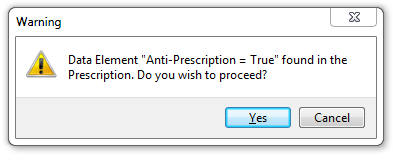
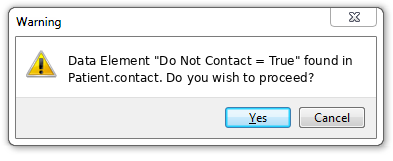
FHIR-18347: Replace stale modifier-extension examples
Issue request:
FHIR-18347 was Published/Persuasive for STU3 and requested replacing the anti-prescription modifier-extension example because core MedicationRequest now supports do-not-administer requests. The Jira specifically asked to use a Patient.contact do-not-contact example, update the XML/JSON instance example plus the sample warning graphic and surrounding text, and preferably replace the narrative example with a Condition family-history modifier example.

Initial application:
The explicit application commit 32abd5cc959eb6f7daac0704952cd9c681ac0101 changed only the introductory modifier-extension bullet in source/extensibility.html from anti-prescription to Patient.contact. The lower XML/JSON example, narrative example, warning image, and RDF example still carried the anti-prescription pattern in the current source.

Additional context:
MedicationRequest now has MedicationRequest.doNotPerform for requests not to take or administer medication, so retaining anti-prescription as an extension example is misleading. source/hierarchy.xml includes extensibility.html and rdf.html in the current build, and source/extensibility.html directly references the warning image and RDF example. No Zulip or Confluence search result found a conflicting work-group or community decision. FHIR-7376 is already represented on the combined branch as a separate typo audit touching the same historical anti-prescription area, so it was not decided again here.

AutoFHIR reconciliation:
[…]

Changed region(s): [[0.1527, 0.4348, 0.7939, 0.528], [0.1527, 0.3416, 0.916, 0.4037]]

diff --git a/source/extensibility.html b/source/extensibility.html
@@ -373,33 +373,38 @@ In XML, these modifier elements are represented using an element named <code>mod
 </p>
 <div class="example">
 <p>
-  Example: There's no element on <a href="medicationrequest.html">MedicationRequest</a>
-to write an "anti-prescription" - an instruction not to take a medication for a particular period.
-Classical clinical recording systems do not record this as a prescription - but one particular
-system does, and these "anti-prescription" records need to be shared within the institution
-where this happens as they are an important part of the workflow.  Hence, applications are allowed to extend a resource with data like this:
+  Example: A patient may need to list a next of kin or other contact for record-keeping purposes while indicating that the contact must not be contacted.
+<a href="patient-definitions.html#Patient.contact">Patient.contact</a> has no core element that carries this instruction, so an implementation could use a modifier extension on the contact:
 </p>
 <pre class="xml">
-&lt;MedicationRequest&gt;
-  &lt;modifierExtension url="http://example.org/fhir/StructureDefinition/anti-prescription"&gt;
-    &lt;valueBoolean value="true"/&gt;
-  &lt;/modifierExtension&gt;
-  &lt;!-- ... other content ... --&gt;
-&lt;/MedicationRequest&gt;
+&lt;Patient&gt;
+  &lt;contact&gt;
+    &lt;modifierExtension url="http://example.org/fhir/StructureDefinition/patient-contact-do-not-contact"&gt;
+      &lt;valueBoolean value="true"/&gt;
+    &lt;/modifierExtension&gt;
+    &lt;!-- ... other contact details ... --&gt;
+  &lt;/contact&gt;
+  &lt;!-- ... other patient content ... --&gt;
+&lt;/Patient&gt;
 </pre>
 <p>
 Or in JSON:
 </p>
 <pre class="json">
 {
-  "resourceType": "MedicationRequest",
-  "modifierExtension": [
+  "resourceType": "Patient",
+  "contact": [
     {
-      "url": "http://example.org/fhir/StructureDefinition/anti-prescription",
-      "valueBoolean": true
+      "modifierExtension": [
+        {
+          "url": "http://example.org/fhir/StructureDefinition/patient-contact-do-not-contact",
+          "valueBoolean": true
+        }
+      ]
+      // ... other contact details ...
     }
-  ],
-  .. other content ...
+  ]
+  // ... other patient content ...
 }
 </pre>
 <p>See the <a href="rdf.html#modifierExtension">RDF page</a> for an example in RDF (Turtle).
@@ -491,23 +496,23 @@ offer the user the choice to see the original narrative.
   
 <div class="example">
 <p>
-Here is the prescription example from above with narrative:
+Here is a Condition family-history example with narrative:
 </p>
 <pre class="xml">
-&lt;MedicationRequest xmlns="http://hl7.org/fhir"&gt;
+&lt;Condition xmlns="http://hl7.org/fhir"&gt;
   &lt;text&gt;
     &lt;status value="generated"/&gt;
     &lt;div xmlns="http://www.w3.org/1999/xhtml"&gt;
-      &lt;p&gt;&lt;b&gt;Note: This prescription is an instruction NOT to take a medication&lt;/b&gt;&lt;/p&gt;
+      &lt;p&gt;&lt;b&gt;Note: This record asserts a family history of the condition, not that the patient has the condition&lt;/b&gt;&lt;/p&gt;
       &lt;!-- snip actual narrative --&gt;
     &lt;/div&gt;
   &lt;/text&gt;
   &lt;!-- ...data... --&gt;
-  &lt;modifierExtension url="http://example.org/fhir/StructureDefinition/anti-prescription"&gt;
+  &lt;modifierExtension url="http://example.org/fhir/StructureDefinition/condition-family-history"&gt;
     &lt;valueBoolean value="true"/&gt;
   &lt;/modifierExtension&gt;
   &lt;!-- ...data... --&gt;
-&lt;/MedicationRequest&gt;
+&lt;/Condition&gt;
 </pre>
 </div>
 

diff --git a/source/rdf.html b/source/rdf.html
@@ -897,15 +897,15 @@ fhir:contained ( <b>&lt;#2222&gt;</b> ) ; # Relative URI
           extension from blindly processing it as though it still had
           the original semantics.&nbsp; The structure of the
           element is otherwise unchanged.  Note the underscore at the
-          beginning of "_MedicationRequest" in the following example:<br/> </p>
-          <pre class="rdf">&lt;http://example.org/fhir/MedicationRequest/MR321&gt; a <b>fhir:_MedicationRequest;</b>
+          beginning of "_Condition" in the following example:<br/> </p>
+          <pre class="rdf">&lt;http://example.org/fhir/Condition/Con321&gt; a <b>fhir:_Condition;</b>
   fhir:nodeRole fhir:treeRoot;
-  fhir:extension ( ... );           <span class="xmlcomment"># above bodyPosition and delta extensions</span>
+  fhir:extension ( ... );           <span class="xmlcomment"># other non-modifier extensions</span>
   <b>fhir:modifierExtension</b> (
     [
       fhir:url [
-        fhir:l &lt;http://example.org/fhir/StructureDefinition/anti-prescription&gt; ;
-        fhir:v "http://example.org/fhir/StructureDefinition/anti-prescription"^^xsd:anyURI ] ;
+        fhir:l &lt;http://example.org/fhir/StructureDefinition/condition-family-history&gt; ;
+        fhir:v "http://example.org/fhir/StructureDefinition/condition-family-history"^^xsd:anyURI ] ;
       fhir:value [ a fhir:Boolean ; fhir:v true ]
     ]
   )
@@ -921,7 +921,7 @@ fhir:contained ( <b>&lt;#2222&gt;</b> ) ; # Relative URI
           </p>
 
 <pre>
-fhir:MedicationRequest <b>fhir:modifierExtensionClass</b> fhir:_MedicationRequest .
+fhir:Condition <b>fhir:modifierExtensionClass</b> fhir:_Condition .
 </pre>
 
           <p> BackboneElements and BackboneTypes are object types. Any
